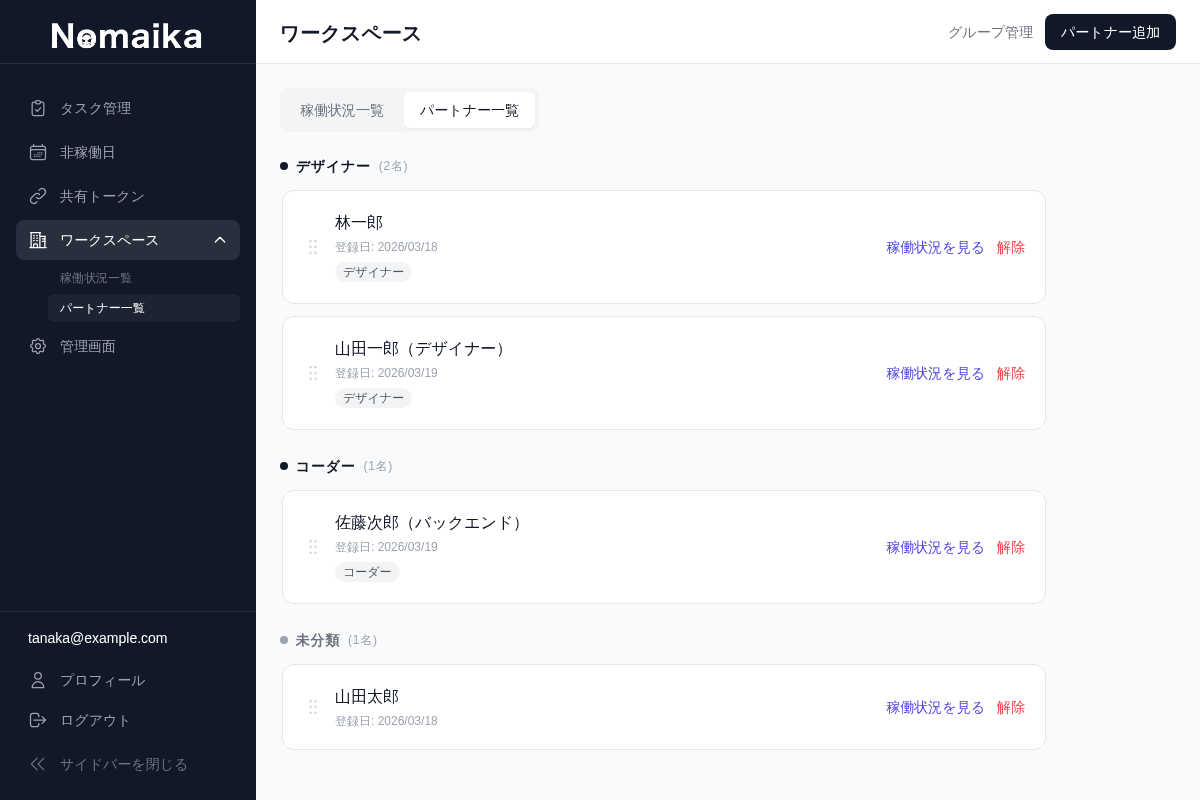
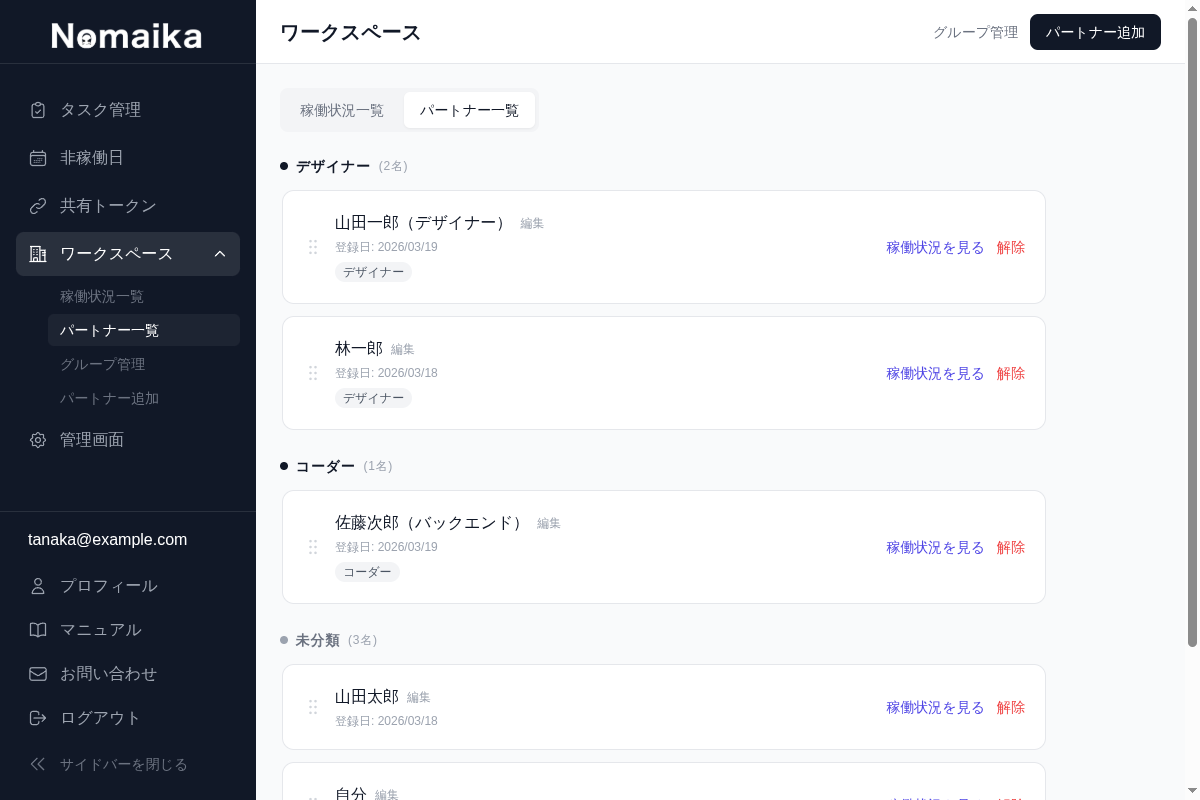
共有トークンの表示名ハイブリッド化・メモ欄追加に合わせて本文とスクショを更新
パートナー側の表示名が任意のヒントとなり、メモ欄が追加されたこと、
またディレクター側でトークン登録が2ステップ化され独自の表示名を
設定できるようになったことを反映。

diff --git a/docs/guide/share-tokens.md b/docs/guide/share-tokens.md
@@ -13,9 +13,15 @@
 ![共有トークン管理画面](/images/share-tokens.png)
 
 1. サイドバーの「**共有トークン**」をクリック
-2. 「**新しいトークンを発行**」セクションで表示名を入力
-   - 表示名はディレクターのワークスペースに表示される名前です（例: 田中太郎）
+2. 「**新しいトークンを発行**」セクションで必要な項目を入力
+   - **表示名（任意）**: ディレクター側で登録する際の初期値として使われるヒントです（例: 田中太郎）。未入力でも発行できます。
+   - **メモ（任意）**: 発行先や用途などを記録しておける自分用の管理メモです。ディレクター側からは見えません。
 3. 「**発行**」ボタンをクリック
+
+::: tip 表示名とメモの使い分け
+- **表示名** はディレクターがそのまま使うことも多いため、相手に分かりやすい名前を入れておくと親切です。
+- **メモ** は自分だけが見られる管理情報なので、「◯◯案件の田中さん宛」など、どのディレクターに渡したかを忘れないようにするメモとして活用できます。
+:::
 
 ## トークンの共有
 
@@ -30,7 +36,7 @@
 :::
 
 ::: tip 同じディレクターに複数トークンを発行する
-ディレクター側で複数のグループ（例: デザイナー、コーダー）にあなたを登録したい場合、グループごとにトークンを発行してください。表示名をグループに合わせて設定すると管理しやすくなります（例: 「田中太郎（デザイン）」「田中太郎（コーディング）」）。
+ディレクター側で複数のグループ（例: デザイナー、コーダー）にあなたを登録したい場合、グループごとにトークンを発行してください。メモ欄に用途を記録しておくと、どのトークンを誰に渡したかを管理しやすくなります。
 :::
 
 ## トークンの状態
@@ -40,11 +46,15 @@
 - **未登録**: まだディレクターが登録していない状態
 - **登録済み（日付）**: ディレクターがワークスペースに登録した状態
 
-## 表示名の変更
+## 表示名・メモの変更
 
 1. トークン一覧でトークンの「**編集**」をクリック
-2. 新しい表示名を入力
+2. 表示名やメモを変更
 3. 「**保存**」をクリック
+
+::: info 既に登録済みのトークンの表示名について
+パートナー側で表示名を変更しても、すでにディレクターがワークスペースに登録済みのトークンに対しては、ディレクター側で設定した表示名が優先されます。ディレクター側は登録後も独自に表示名を変更できます。
+:::
 
 ## トークンの削除
 

diff --git a/docs/workspace/register.md b/docs/workspace/register.md
@@ -8,19 +8,40 @@
 
 ![パートナー一覧](/images/workspace-list.png)
 
+パートナー追加は2つのステップで行います。
+
+### ステップ1: トークン入力
+
 1. サイドバーの「**ワークスペース**」をクリック
 2. 「**パートナー追加**」ボタンをクリック
 3. パートナーから受け取ったトークンを入力
-4. 必要に応じてグループを選択（未分類でも可）
-5. 「**登録**」ボタンをクリック
+4. 「**次へ**」ボタンをクリック
 
-![パートナー追加画面](/images/workspace-register.png)
+![パートナー追加画面（トークン入力）](/images/workspace-register.png)
+
+### ステップ2: 表示名・グループの設定
+
+トークンが確認されると、登録内容の確認画面に進みます。
+
+1. **表示名**: ワークスペース上で表示する名前を設定します
+   - パートナー側で設定された表示名（ヒント）が初期値として入力されます
+   - 自分が管理しやすい名前に自由に変更できます（例: 「田中太郎（デザイン）」）
+2. **グループ（任意）**: 必要に応じてグループを選択
+3. 「**登録**」ボタンをクリック
+
+::: info 表示名はディレクター側で自由に設定できます
+ディレクター側で設定した表示名はパートナー側には伝わりません。ワークスペース上で管理しやすい名前を自由に設定してください。登録後もパートナーカードの「編集」から変更できます。
+:::
 
 ::: info トークン登録時のルール
 - 1つのトークンは1人のディレクターのみが登録できます
 - 自分自身のトークンは登録できません
 - 既に他のディレクターが登録済みのトークンは登録できません
 :::
+
+## 表示名の変更
+
+パートナー一覧で各パートナー名の右側にある「**編集**」ボタンから、ワークスペース上での表示名をいつでも変更できます。
 
 ## パートナーの解除
 
